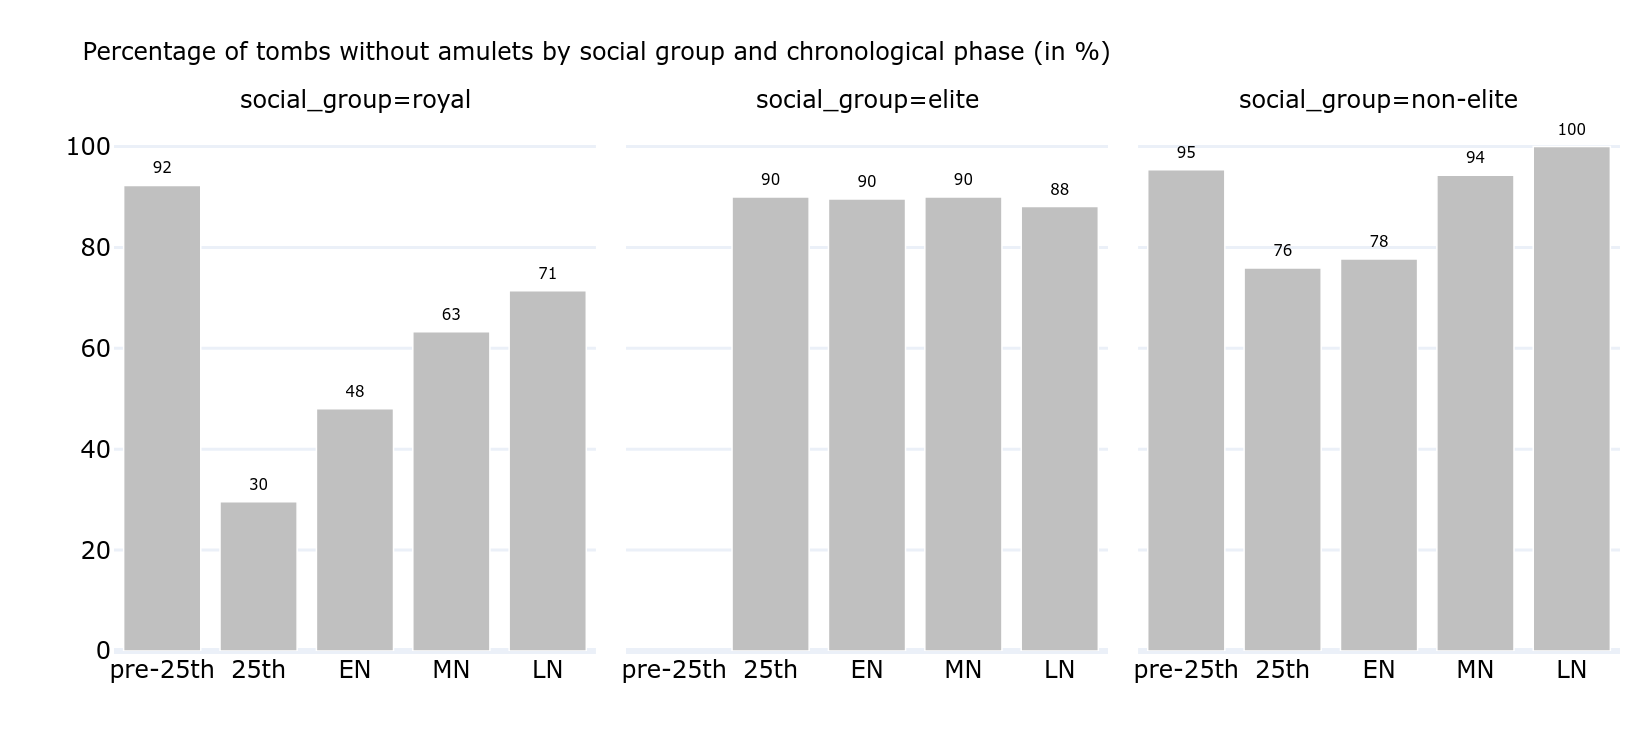
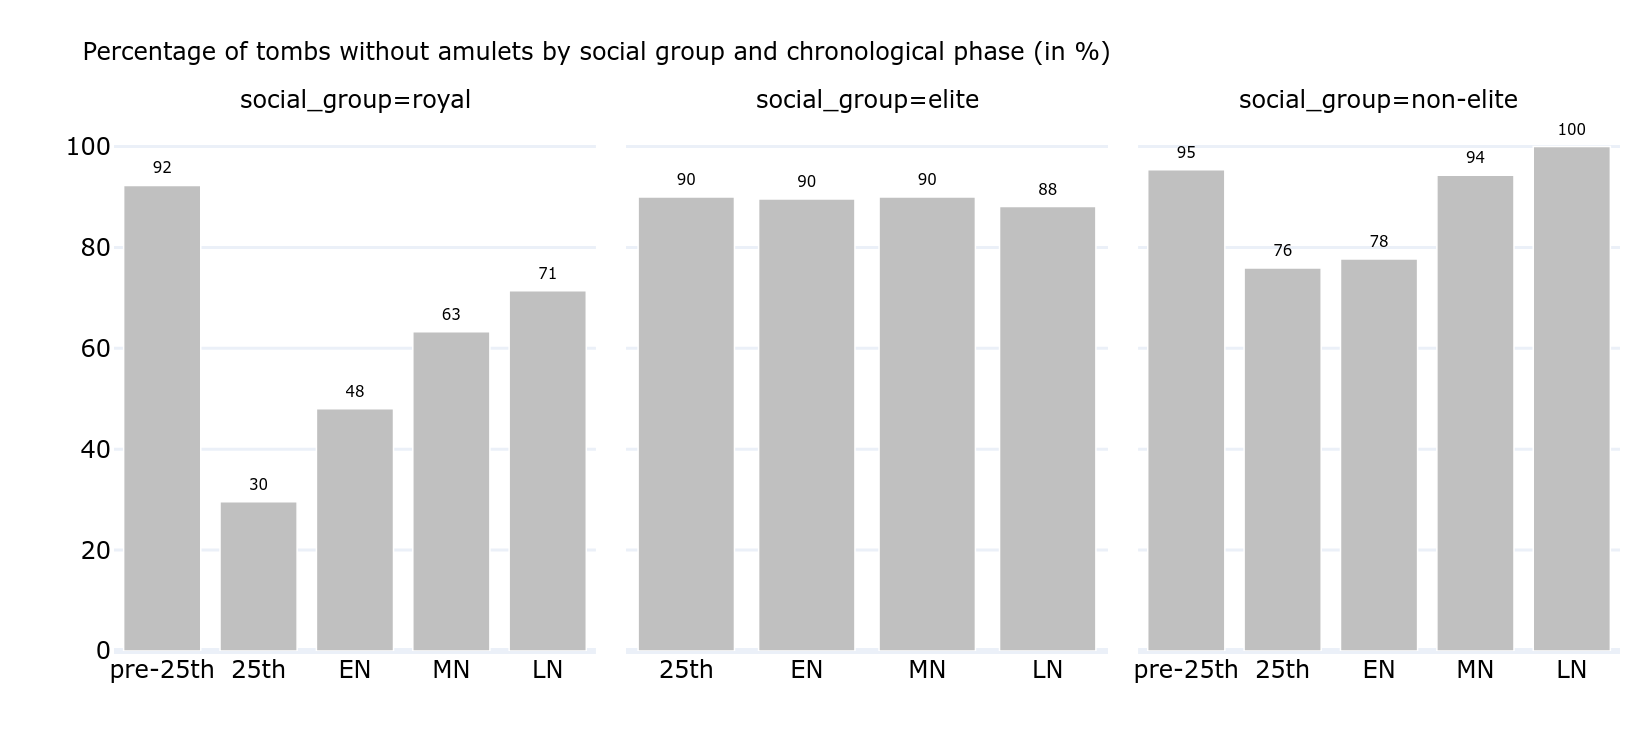
final

Changed region(s): [[0.3709, 0.2147, 0.6491, 0.92], [0.5564, 0.2147, 0.5873, 0.2453]]

diff --git a/chapter6/motifs_region_2x_royal.py b/chapter6/motifs_region_2x_royal.py
@@ -57,9 +57,9 @@ fig.update_layout(xaxis=dict(automargin=True, title_standoff=0),
     font=dict(
         family="Verdana, sans-serif",
         color='black',
-        size=4),
+        size=6),
     legend_title_text='',
-    title_font=dict(size=4),
+    title_font=dict(size=6),
     autosize=True,
     margin=dict(l=0, r=0, t=20, b=0),
     showlegend=False
@@ -67,6 +67,6 @@ fig.update_layout(xaxis=dict(automargin=True, title_standoff=0),
 
 fig.update_traces(textposition='middle right', textfont_size=4)
 fig.update_yaxes(title='', nticks=20)
-fig.update_xaxes(title='', matches=None, tickangle=45)
+fig.update_xaxes(title='', matches=None)
 
-pio.write_image(fig, 'images/chapter6/motifs_region_2x-royal.png',scale=3, width=350, height=170)
+pio.write_image(fig, 'images/chapter6/motifs_region_2x-royal.png',scale=3, width=550, height=200)

diff --git a/chapter6/motifs_region_2x_non-elite.py b/chapter6/motifs_region_2x_non-elite.py
@@ -57,16 +57,16 @@ fig.update_layout(xaxis=dict(automargin=True, title_standoff=0),
     font=dict(
         family="Verdana, sans-serif",
         color='black',
-        size=4),
+        size=6),
     legend_title_text='',
-    title_font=dict(size=4),
+    title_font=dict(size=6),
     autosize=True,
-    margin=dict(l=0, r=0, t=40, b=0),
+    margin=dict(l=0, r=0, t=10, b=0),
     showlegend=False
 )
 
 fig.update_traces(textposition='middle right', textfont_size=4)
 fig.update_yaxes(title='', nticks=20)
-fig.update_xaxes(title='', matches=None, tickangle=45)
+fig.update_xaxes(title='', matches=None)
 
-pio.write_image(fig, 'images/chapter6/motifs_region_2x-non-elite.png',scale=3, width=350, height=200)
+pio.write_image(fig, 'images/chapter6/motifs_region_2x-non-elite.png',scale=3, width=550, height=200)

diff --git a/chapter6/motifs_phase_2x_non-elite.py b/chapter6/motifs_phase_2x_non-elite.py
@@ -67,11 +67,11 @@ fig.update_layout(xaxis=dict(automargin=True, title_standoff=0),
     font=dict(
         family="Verdana, sans-serif",
         color='black',
-        size=4),
+        size=6),
     legend_title_text='',
-    title_font=dict(size=4),
+    title_font=dict(size=6),
     autosize=True,
-    margin=dict(l=0, r=0, t=20, b=0),
+    margin=dict(l=0, r=0, t=10, b=0),
     showlegend=False
 )
 
@@ -79,4 +79,4 @@ fig.update_traces(textposition='top right', textfont_size=4)
 fig.update_yaxes(title='', nticks=20)
 fig.update_xaxes(title='', matches=None)
 
-pio.write_image(fig, 'images/chapter6/motifs_phase_2x-non-elite.png',scale=3, width=300, height=200)
+pio.write_image(fig, 'images/chapter6/motifs_phase_2x-non-elite.png',scale=3, width=550, height=200)

diff --git a/chapter6/motifs_phase_2x_royal.py b/chapter6/motifs_phase_2x_royal.py
@@ -58,11 +58,11 @@ fig.update_layout(xaxis=dict(automargin=True, title_standoff=0),
     font=dict(
         family="Verdana, sans-serif",
         color='black',
-        size=4),
+        size=6),
     legend_title_text='',
-    title_font=dict(size=4),
+    title_font=dict(size=6),
     autosize=True,
-    margin=dict(l=0, r=0, t=20, b=0),
+    margin=dict(l=0, r=0, t=30, b=0),
     showlegend=False
 )
 
@@ -70,4 +70,4 @@ fig.update_traces(textposition='top right', textfont_size=4)
 fig.update_yaxes(title='', nticks=20)
 fig.update_xaxes(title='', matches=None)
 
-pio.write_image(fig, 'images/chapter6/motifs_phase_2x-royal.png',scale=3, width=300, height=200)
+pio.write_image(fig, 'images/chapter6/motifs_phase_2x-royal.png',scale=3, width=550, height=200)

diff --git a/chapter6/distribution_meroe_intact.py b/chapter6/distribution_meroe_intact.py
@@ -127,7 +127,7 @@ fig.update_layout(
 )
 
 fig.update_traces(textposition='outside', textfont_size=5)
-fig.update_yaxes(title='')
+fig.update_yaxes(title='', matches=None)
 fig.update_xaxes(title='')
 
 pio.write_image(fig, 'images/chapter6/distribution_meroe_intact.png',scale=3, width=550, height=250)

diff --git a/chapter6/distribution_phase_median.py b/chapter6/distribution_phase_median.py
@@ -95,6 +95,6 @@ fig.update_layout(
 
 fig.update_traces(textposition='outside', textfont_size=5)
 fig.update_yaxes(title='')
-fig.update_xaxes(title='')
+fig.update_xaxes(title='', matches=None)
 
 pio.write_image(fig, 'images/chapter6/distribution_median_phase.png',scale=3, width=550, height=250)

diff --git a/chapter6/distribution_region_median.py b/chapter6/distribution_region_median.py
@@ -105,6 +105,6 @@ fig.update_layout(
 
 fig.update_traces(textposition='auto', textfont_size=5)
 fig.update_yaxes(title='')
-fig.update_xaxes(title='')
+fig.update_xaxes(title='', matches=None)
 
 pio.write_image(fig, 'images/chapter6/distribution_median_region.png',scale=3, width=550, height=250)

diff --git a/chapter6/motifs_region_animals.py b/chapter6/motifs_region_animals.py
@@ -157,7 +157,7 @@ fig.update_layout(
 )
 
 fig.update_traces(textposition='auto', textfont_size=3)
-fig.update_yaxes(title='')
+fig.update_yaxes(title='', matches=None)
 fig.update_xaxes(title='')
 
 pio.write_image(fig, 'images/chapter6/motifs_region_animals.png',scale=3, width=550, height=300)

diff --git a/chapter6/types_region.py b/chapter6/types_region.py
@@ -79,7 +79,7 @@ fig.update_layout(
     title_font=dict(size=8)
 )
 
-fig.update_yaxes(title='')
+fig.update_yaxes(title='', matches=None)
 fig.update_xaxes(title='')
 
 pio.write_image(fig, 'images/chapter6/types_region.png',scale=3, width=550, height=320)
